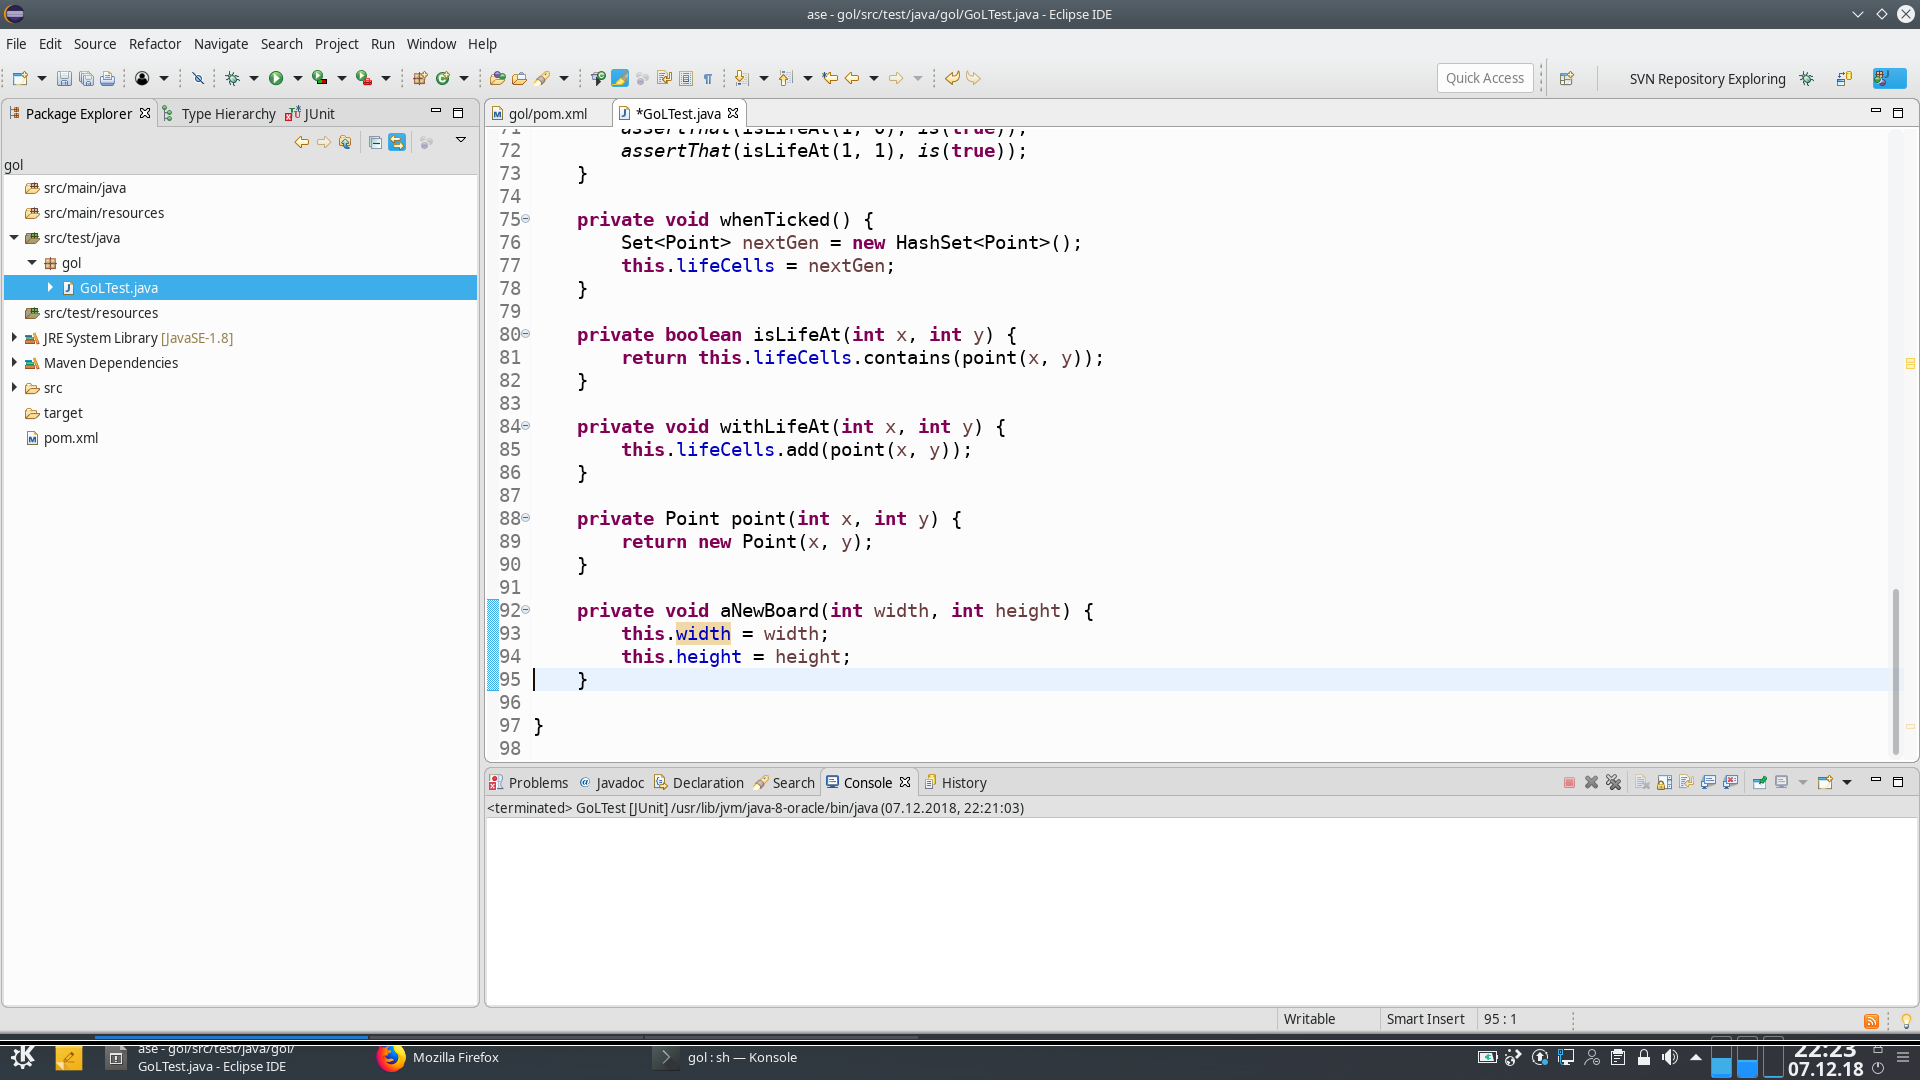
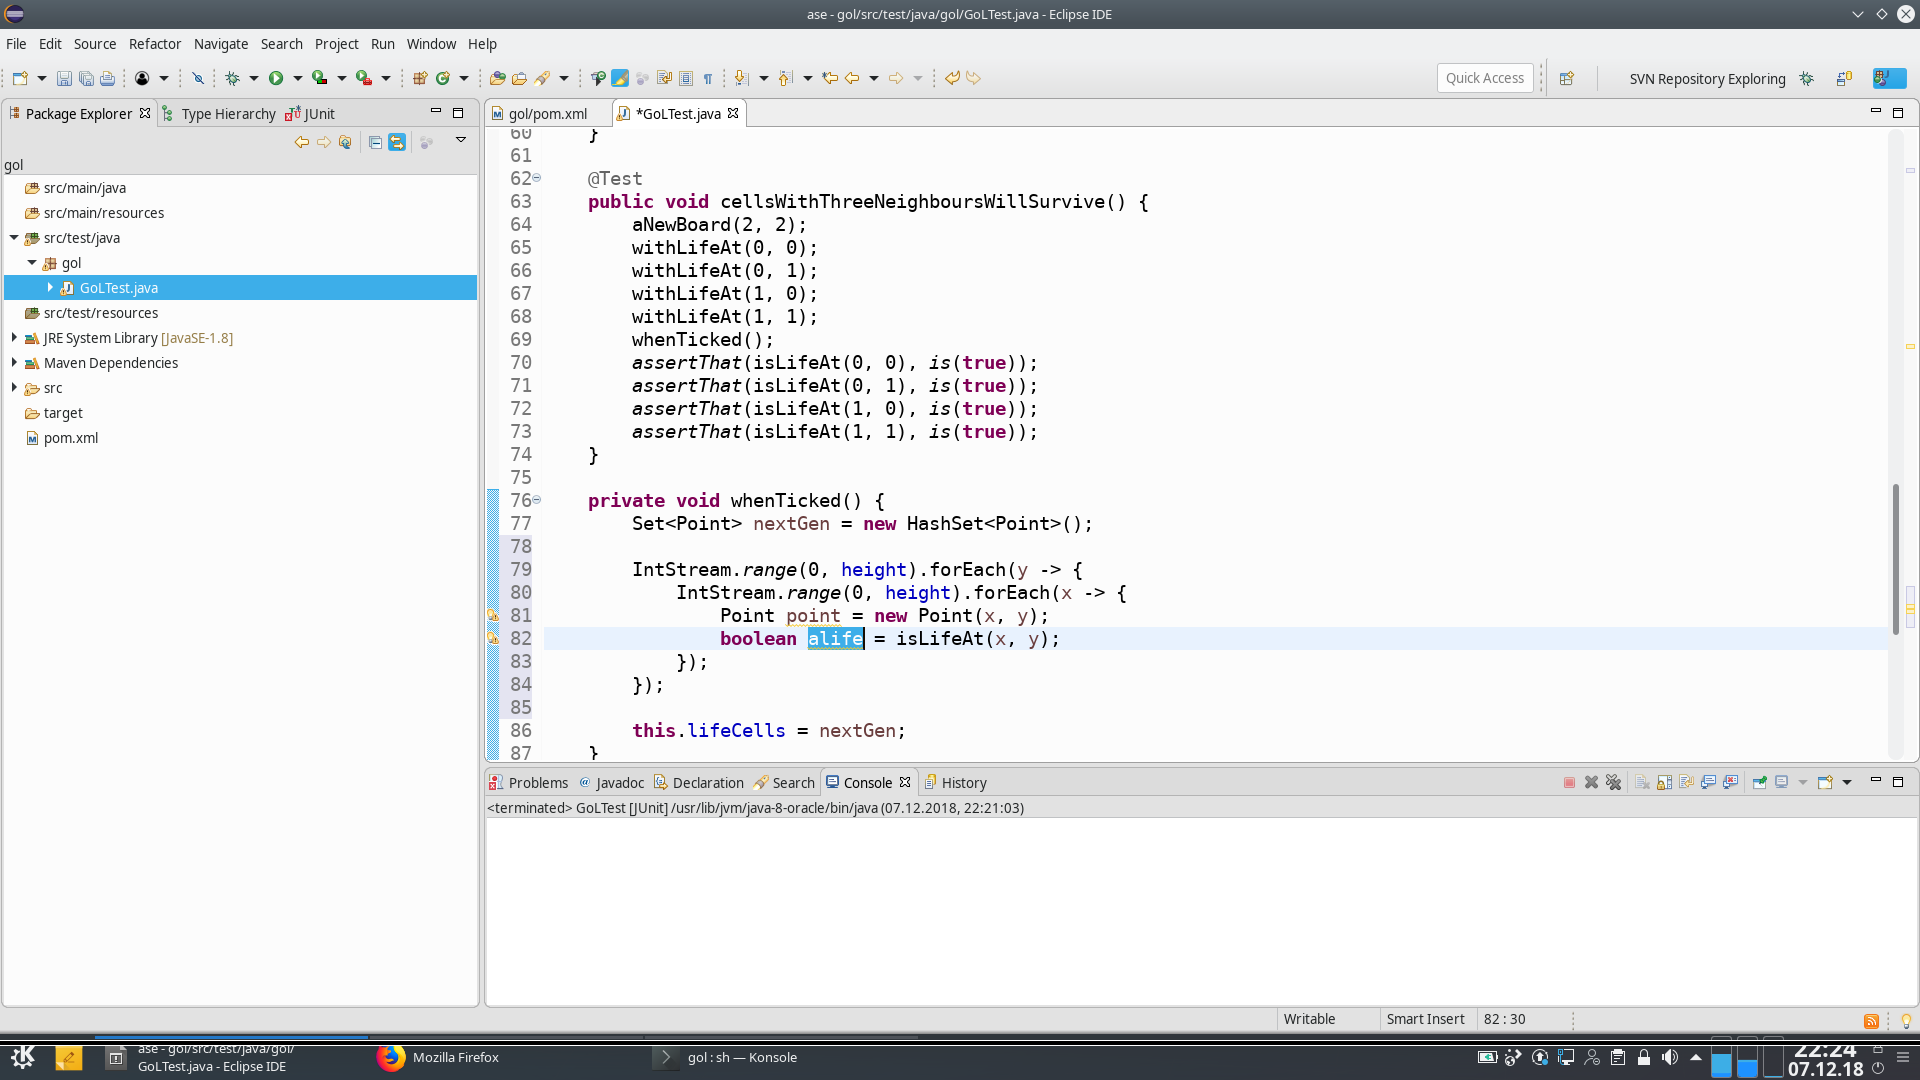
autocommit on change

diff --git a/src/test/java/gol/GoLTest.java b/src/test/java/gol/GoLTest.java
@@ -5,6 +5,7 @@ import static org.junit.Assert.assertThat;
 
 import java.util.HashSet;
 import java.util.Set;
+import java.util.stream.IntStream;
 
 import org.junit.Test;
 
@@ -74,6 +75,14 @@ public class GoLTest {
 
 	private void whenTicked() {
 		Set<Point> nextGen = new HashSet<Point>();
+
+		IntStream.range(0, height).forEach(y -> {
+			IntStream.range(0, height).forEach(x -> {
+				Point point = new Point(x, y);
+				boolean alife = isLifeAt(x, y);
+			});
+		});
+
 		this.lifeCells = nextGen;
 	}
 
